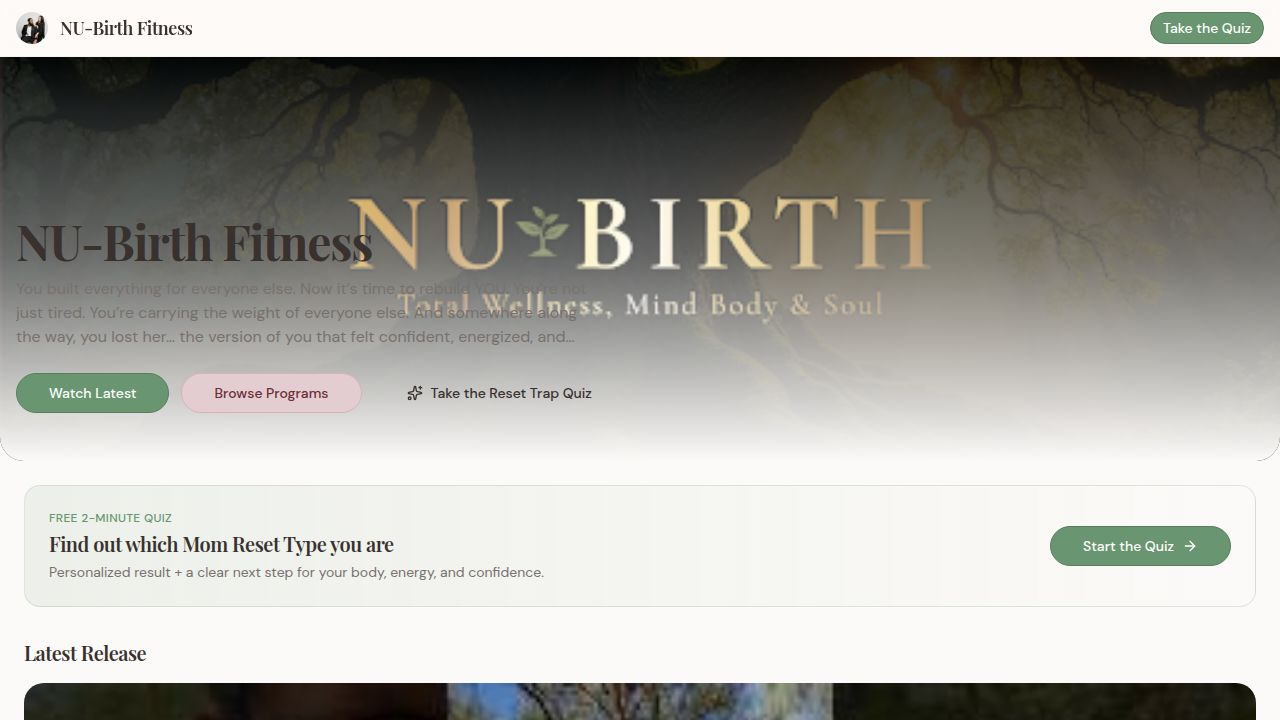
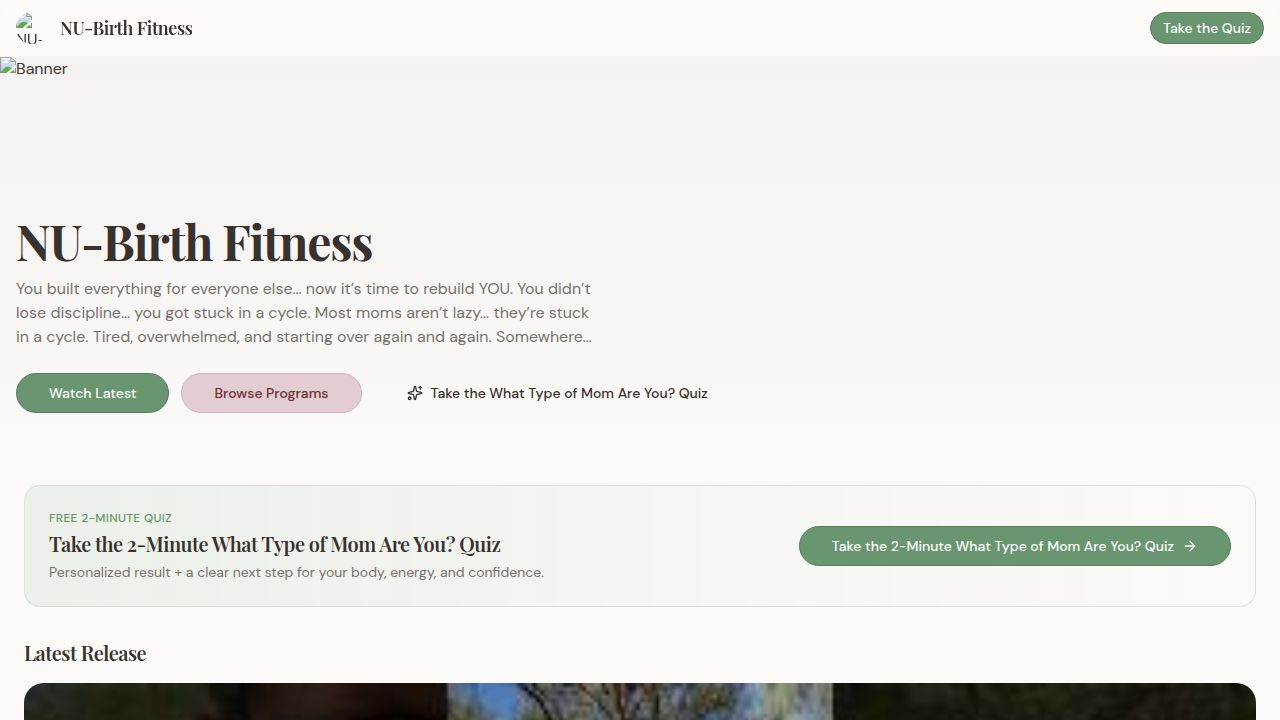
Update quiz name to "What Type of Mom Are You?" across site
Renames the "Reset Trap Quiz" to "What Type of Mom Are You? Quiz" in UI elements, email templates, and admin dashboard, while preserving the original URL slug for backward compatibility.

Replit-Commit-Author: Agent
Replit-Commit-Session-Id: 38a47fd7-67e3-4af5-b84d-3f327f16155d
Replit-Commit-Checkpoint-Type: full_checkpoint
Replit-Commit-Event-Id: 7b2f5560-ceab-4485-9351-364725a3ac4a
Replit-Commit-Screenshot-Url: https://storage.googleapis.com/screenshot-production-us-central1/51a32d77-2d53-4136-9495-1cdb787a7dba/38a47fd7-67e3-4af5-b84d-3f327f16155d/RgXNG5n
Replit-Helium-Checkpoint-Created: true

diff --git a/artifacts/nu-birth-fitness/src/pages/Home.tsx b/artifacts/nu-birth-fitness/src/pages/Home.tsx
@@ -98,7 +98,7 @@ export default function Home() {
               }}
               data-testid="button-home-quiz"
             >
-              <Sparkles className="w-4 h-4" /> Take the Reset Trap Quiz
+              <Sparkles className="w-4 h-4" /> Take the What Type of Mom Are You? Quiz
             </Button>
           </div>
         </div>
@@ -110,7 +110,7 @@ export default function Home() {
           <div>
             <div className="text-xs font-medium uppercase tracking-wide text-primary mb-1">Free 2-minute quiz</div>
             <h3 className="font-serif font-semibold text-lg sm:text-xl">
-              Take the 2-Minute Reset Trap Quiz
+              Take the 2-Minute What Type of Mom Are You? Quiz
             </h3>
             <p className="text-sm text-muted-foreground mt-1">
               Personalized result + a clear next step for your body, energy, and confidence.
@@ -125,7 +125,7 @@ export default function Home() {
             }}
             data-testid="button-home-quiz-top"
           >
-            Take the 2-Minute Reset Trap Quiz <ArrowRight className="w-4 h-4" />
+            Take the 2-Minute What Type of Mom Are You? Quiz <ArrowRight className="w-4 h-4" />
           </Button>
         </div>
       </div>
@@ -205,7 +205,7 @@ export default function Home() {
             Not sure what’s keeping you stuck? Find your Mom Reset Type.
           </h3>
           <p className="text-sm sm:text-base text-muted-foreground max-w-md mx-auto mb-5">
-            Take the 2-minute Reset Trap Quiz and find out which mom pattern is keeping you stuck.
+            Take the 2-minute What Type of Mom Are You? Quiz and find out which mom pattern is keeping you stuck.
           </p>
           <Button
             size="lg"

diff --git a/artifacts/api-server/src/lib/templates.ts b/artifacts/api-server/src/lib/templates.ts
@@ -56,7 +56,7 @@ function shell(opts: {
       Results vary. Nu-Birth Fitness provides coaching and educational guidance, not medical advice. Consult your healthcare provider before beginning a new fitness or nutrition program.
     </p>
     <p style="font-size:12px;color:#888;line-height:1.5;margin:12px 0 0;text-align:center;">
-      You're receiving this because you took the Reset Trap Quiz at Nu-Birth Fitness.<br/>
+      You're receiving this because you took the What Type of Mom Are You? Quiz at Nu-Birth Fitness.<br/>
       ${senderAddress ? `${senderAddress}<br/>` : ""}
       <a href="${unsubscribeUrl}" style="color:#888;text-decoration:underline;">Unsubscribe</a>
     </p>
@@ -127,7 +127,7 @@ export function buildResultTenDayMessage(opts: {
   const title = TEN_DAY_TITLES[step] ?? "From Nu-Birth Fitness";
   const intro =
     step === 0
-      ? `Thanks for taking the Reset Trap Quiz.`
+      ? `Thanks for taking the What Type of Mom Are You? Quiz.`
       : `Quick note from Nu-Birth Fitness — Day ${step} of your reset series.`;
   const tpl = shell({
     firstName,

diff --git a/artifacts/nu-birth-fitness/src/components/layout/Footer.tsx b/artifacts/nu-birth-fitness/src/components/layout/Footer.tsx
@@ -11,7 +11,7 @@ export default function Footer() {
           <Link href="/playlists" className="hover:text-foreground transition-colors">Programs</Link>
           <Link href="/about" className="hover:text-foreground transition-colors">About</Link>
           <Link href="/reset-trap-quiz" className="hover:text-foreground transition-colors font-medium text-primary">
-            Reset Trap Quiz
+            What Type of Mom Are You? Quiz
           </Link>
         </div>
         <FunnelDisclaimer />

diff --git a/artifacts/nu-birth-fitness/src/pages/funnel/Admin.tsx b/artifacts/nu-birth-fitness/src/pages/funnel/Admin.tsx
@@ -104,7 +104,7 @@ function Dashboard({ onLogout, selected, setSelected }: { onLogout: () => void; 
       <div className="flex items-center justify-between mb-6 gap-2 flex-wrap">
         <div>
           <h1 className="text-2xl sm:text-3xl font-serif font-semibold">Funnel Dashboard</h1>
-          <p className="text-sm text-muted-foreground">Reset Trap Quiz performance</p>
+          <p className="text-sm text-muted-foreground">What Type of Mom Are You? Quiz performance</p>
         </div>
         <div className="flex items-center gap-2">
           <Button variant="ghost" size="sm" onClick={refreshAll} data-testid="button-refresh">

diff --git a/artifacts/nu-birth-fitness/src/pages/funnel/QuizLanding.tsx b/artifacts/nu-birth-fitness/src/pages/funnel/QuizLanding.tsx
@@ -67,7 +67,7 @@ export default function QuizLanding() {
           What’s Actually Keeping You Stuck?
         </h1>
         <p className="text-lg sm:text-xl text-muted-foreground leading-relaxed mb-6 max-w-xl mx-auto">
-          Take the 2-minute Reset Trap Quiz and discover which mom pattern is quietly holding your
+          Take the 2-minute What Type of Mom Are You? Quiz and discover which mom pattern is quietly holding your
           body, energy, and confidence back.
         </p>
         <div className="prose prose-sm sm:prose-base mx-auto text-foreground/85 max-w-xl mb-8">